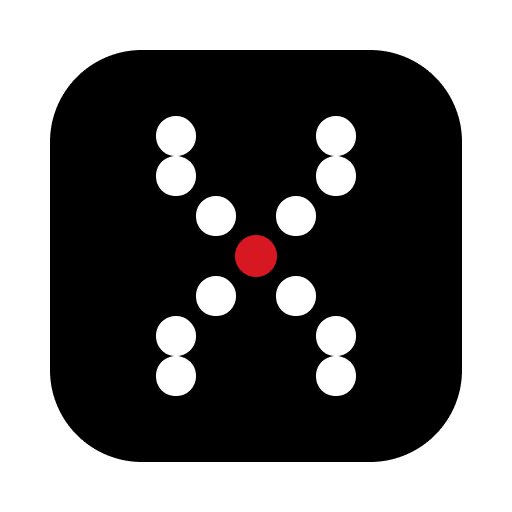
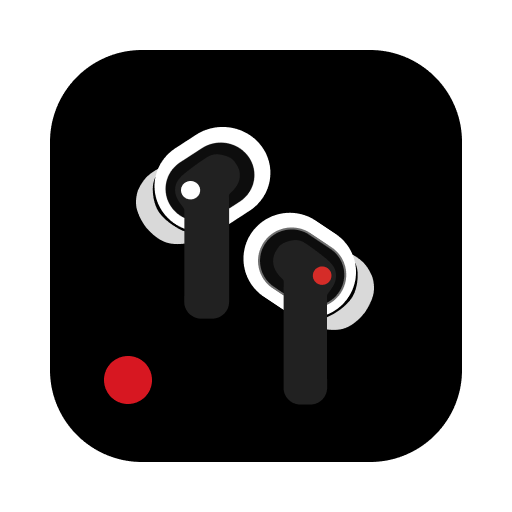
Added Nothing Ear 1 SVG | Added New AppIcon

Changed region(s): [[0.1875, 0.2188, 0.75, 0.8125]]

diff --git a/Nothing X MacOS/Nothing_X_MacOSApp.swift b/Nothing X MacOS/Nothing_X_MacOSApp.swift
@@ -29,7 +29,7 @@ struct Nothing_X_MacOSApp: App {
             }
             .environmentObject(store)
         } label: {
-            Label("\(Double((self.store.leftBattery + self.store.rightBattery)) / 2.0, specifier: "%.0f")%", systemImage: "earbuds")
+            Label("\(Double((self.store.leftBattery + self.store.rightBattery)) / 2.0, specifier: "%.0f")%", image: "nothing.ear.1")
                 .labelStyle(.titleAndIcon)
         }
         .menuBarExtraStyle(.window)
